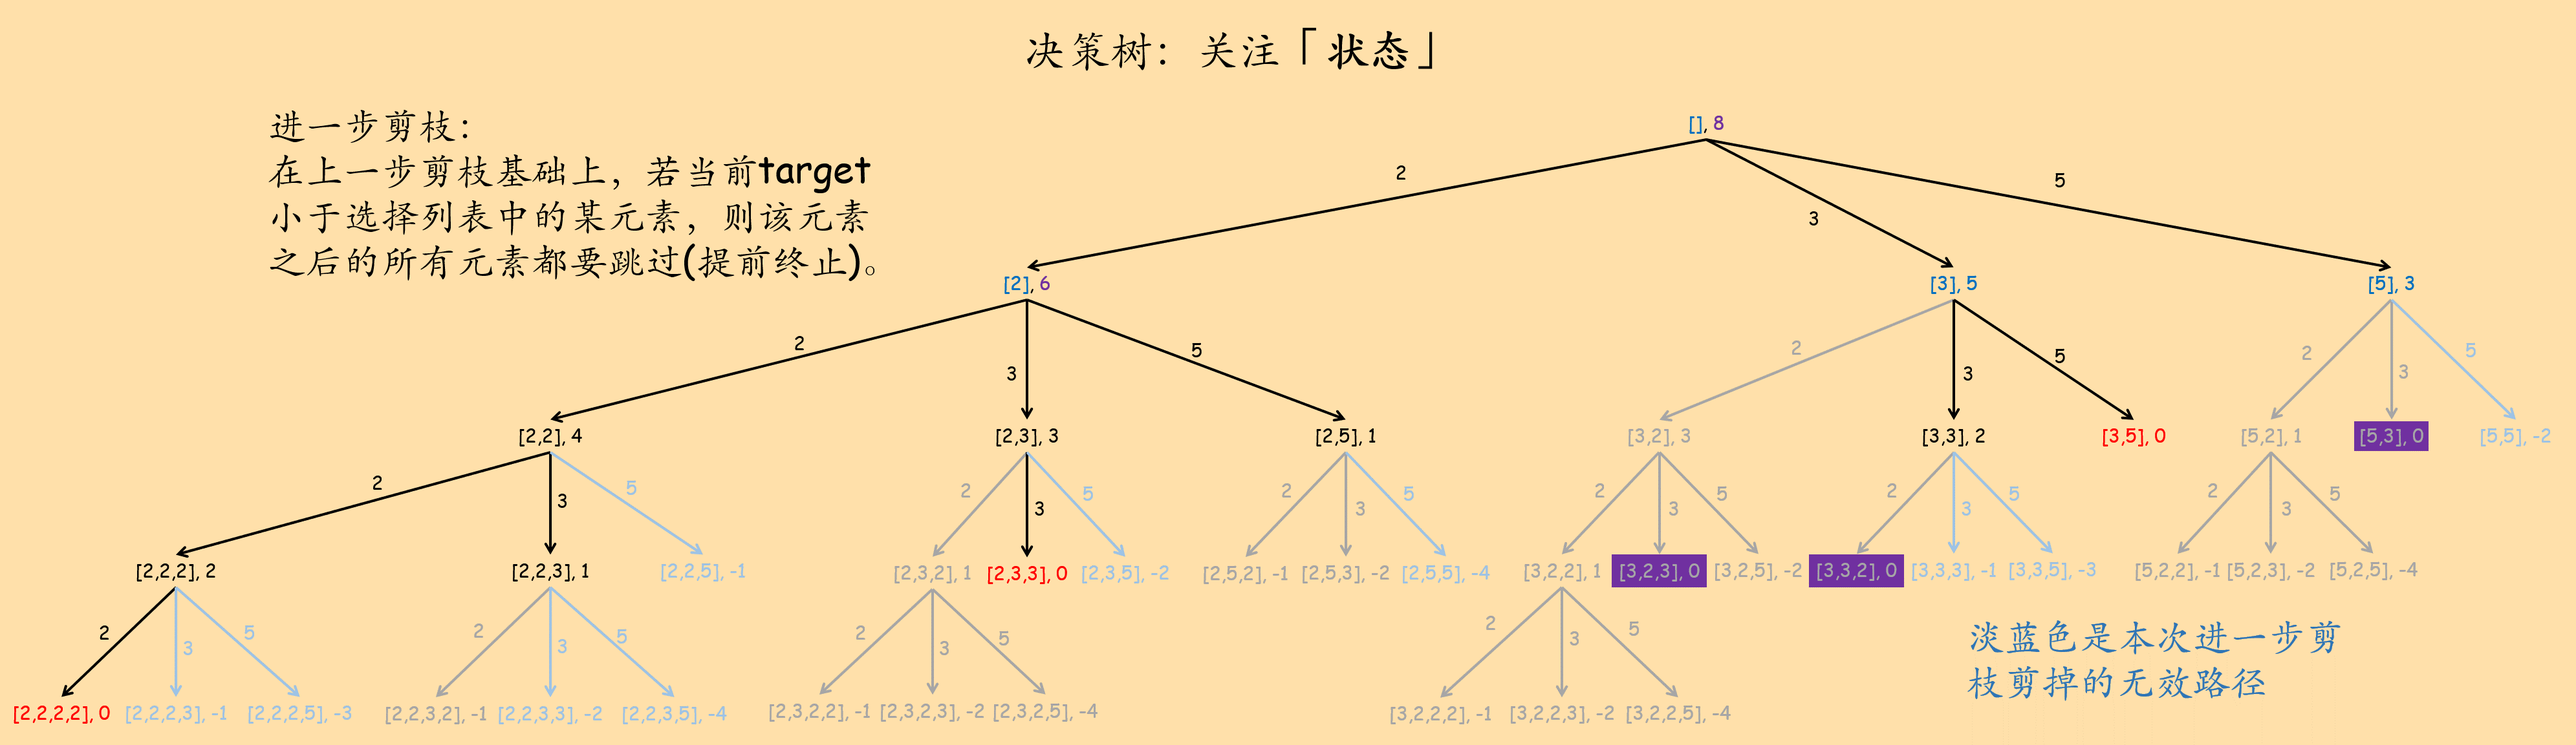
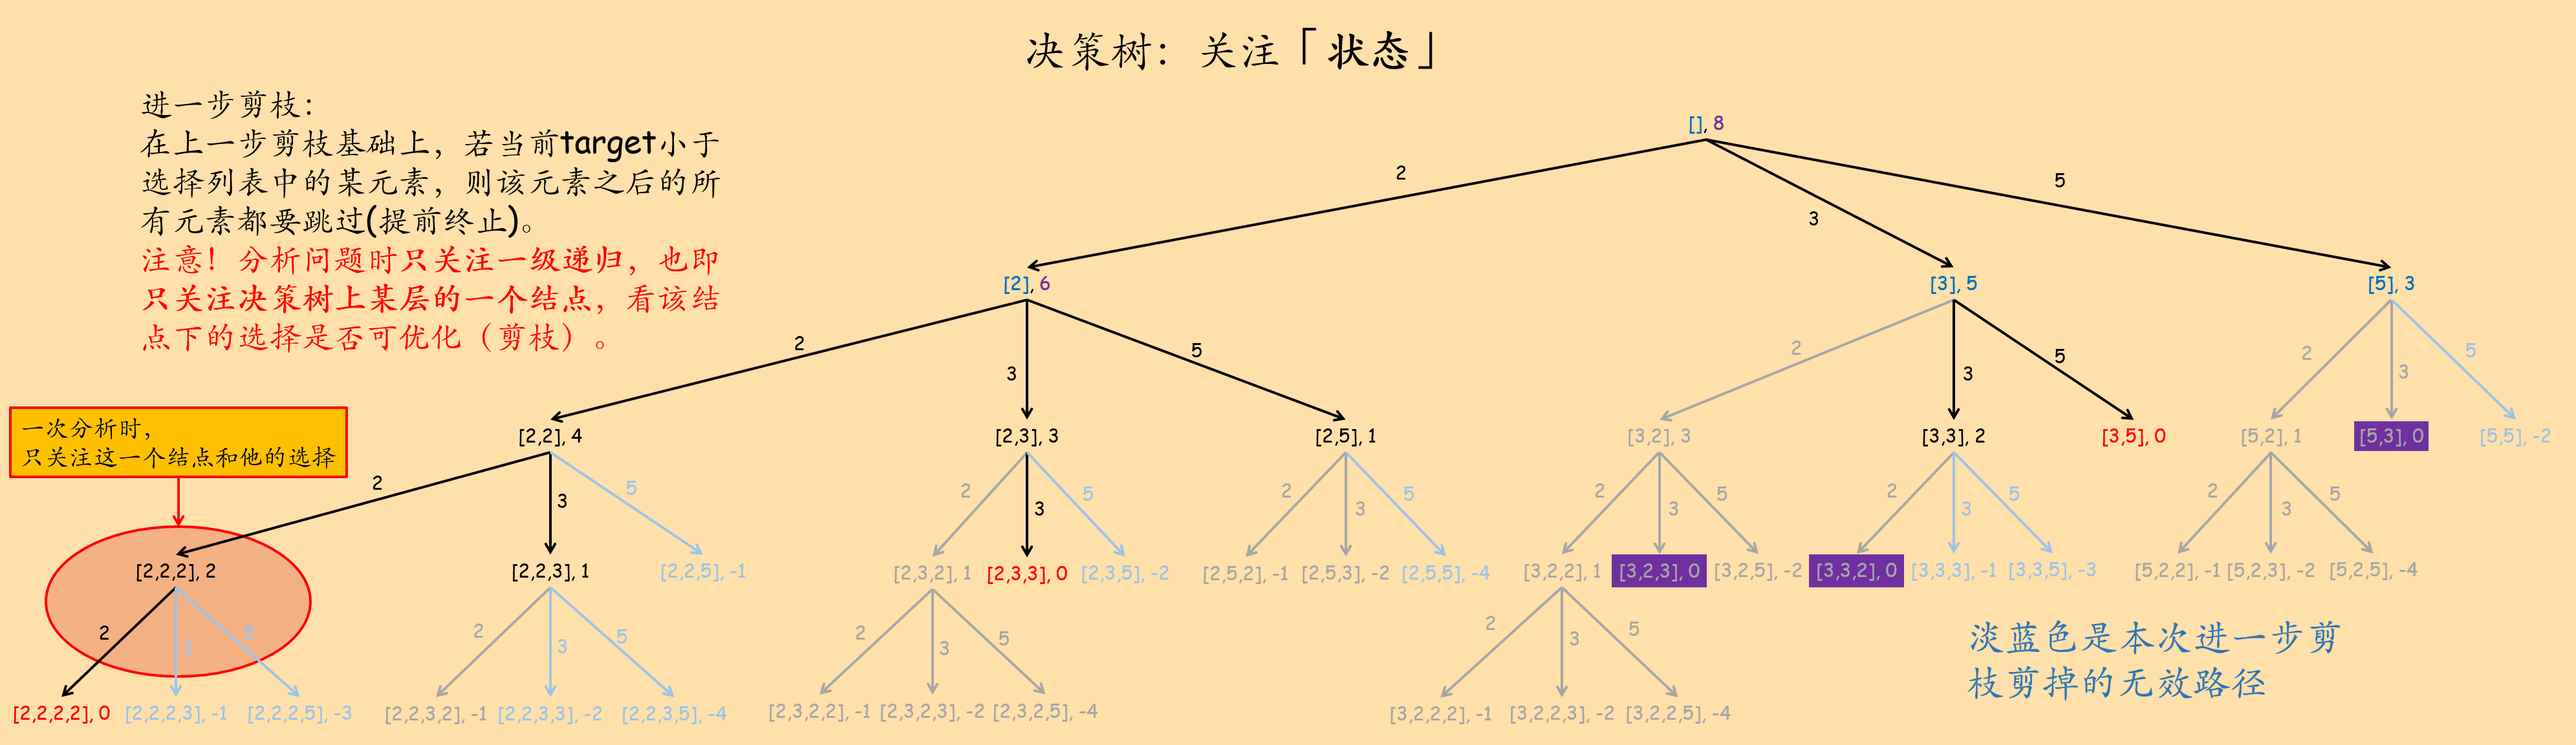
update classical leetcode 39.

Changed region(s): [[0.0623, 0.1249, 0.3425, 0.4683], [0.0, 0.6869, 0.1245, 0.9055], [0.0, 0.5308, 0.1557, 0.6557]]

diff --git a/leetcode/决策问题与回溯法/M-39.组合总和.md b/leetcode/决策问题与回溯法/M-39.组合总和.md
@@ -105,7 +105,9 @@ public:
 
 ### 进一步剪枝：过渡到关注「选择」的方法
 
-上一步剪枝后，其实还有一些分支可以进一步剪掉：若当前target小于选择列表中的某元素，那么该元素及该元素后面的元素全部都应该跳过。据此，可进一步剪枝：
+接下来，我们看看在**一级**之中做的每个「选择」是否会满足一些使递归提前终止的条件。注意！分析问题时一次**只关注一级递归**，也即**只关注决策树上某层的某一个结点**，看该结点下的选择是否可优化。我们可能进行多次这样的分析，从而找到并抽象出所有可能的优化条件（剪枝条件）。切忌连着多级看，否则思路极有可能被打乱并导致错误。
+
+在上一步剪枝后，其实还有一些分支可以进一步剪掉：若当前target小于选择列表中的某元素，那么该元素及该元素后面的元素全部都应该跳过。据此，可进一步剪枝：
 
 ![进一步剪枝](./组合总和/进一步剪枝.png)
 
